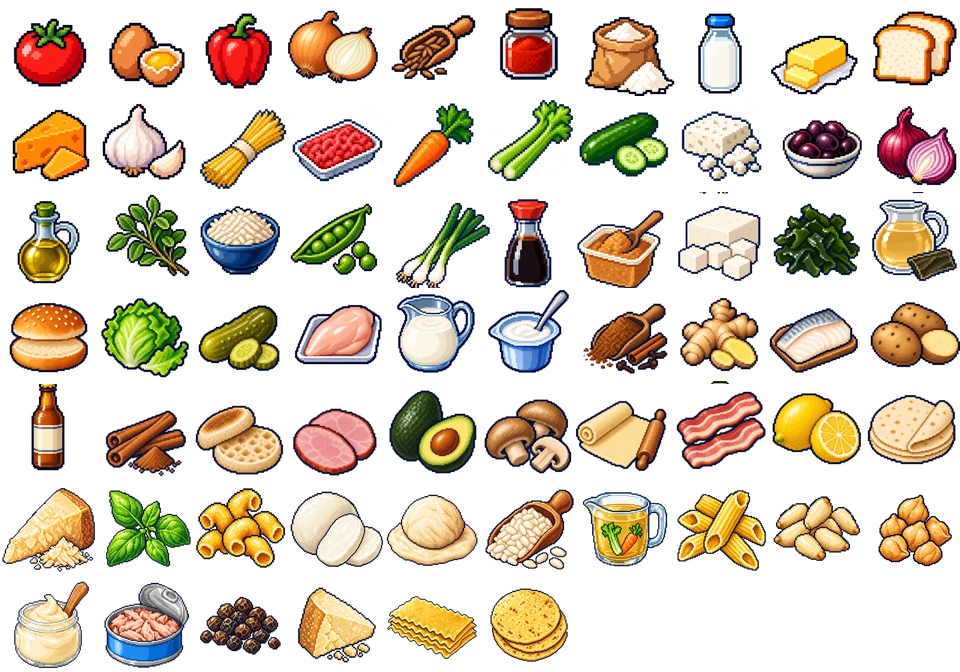
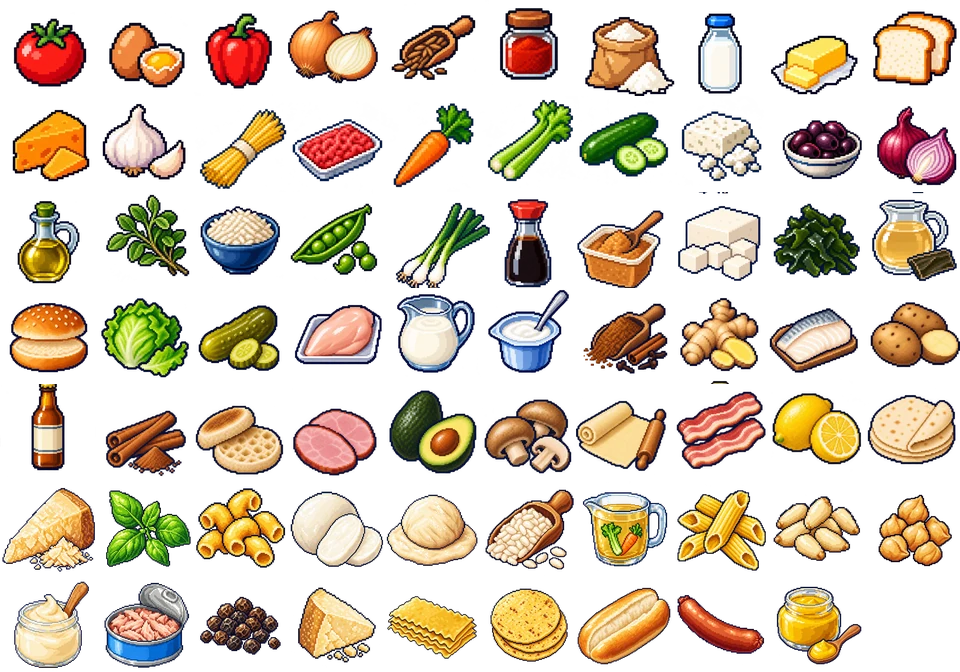
Complete hot dog meal and ingredient artwork

Changed region(s): [[0.5938, 0.875, 0.9062, 1.0]]

diff --git a/WORK_LOG.md b/WORK_LOG.md
@@ -6,9 +6,9 @@ Every AI must read this file before working and update it throughout the session
 
 - Current milestone: game/ is playable with Daily dish (US Eastern midnight, shared clue order, saved on device) and Endless (shuffled deck, excludes today's daily, not saved). Browser-verified in emulation; real-device keyboards untested.
 - Product: daily meal guessing plus endless mode. Approved desktop B split layout and mobile native-keyboard-aware layout.
-- Available: 45-meal roster, 29 meal illustrations, 66 of 103 canonical ingredient icons, 11 draft custom animation groups, mockups, prompts, visual prototypes and normalized asset map.
+- Available: 45-meal roster, 30 meal illustrations, 69 of 103 canonical ingredient icons, 11 draft custom animation groups, mockups, prompts, visual prototypes and normalized asset map.
 - Implemented: responsive game, daily/endless, daily persistence, alias suggestions, streaks, sound and lazy-loaded art. Test deploy live at https://meal-lion-playtest.netlify.app (2026-10-21, public, no password); final product decisions remain open. reference/meal-lion-demo/pilot.html remains a visual demo that exposes answers.
-- Repository/branch/checkpoint: codex/missing-food-art; latest existing checkpoint 8c54ac5 before this asset batch. Remote: origin = https://github.com/EricTalanoa/meal-lion (private); main, feat/three-meal-game and codex/missing-food-art pushed 2026-10-19.
+- Repository/branch/checkpoint: codex/missing-food-art; latest existing checkpoint 8ac6ab3 before the hot dog batch. Remote: origin = https://github.com/EricTalanoa/meal-lion (private); main, feat/three-meal-game and codex/missing-food-art pushed 2026-10-19.
 - Asset automation: cloud task 6ad7bfe9c2408191b650b820afd8a386 was verified PAUSED on 2026-10-21; local heartbeat is PAUSED to prevent duplicates. 41 icons / 18 meals queued. Outputs require later local import. See docs/ASSET_AUTOMATION.md. Recurring queue/resume behavior remains untested.
 - Confirmed rules: ingredient-count guess budget, one free clue (zero optional), hidden total by default (showing totals is optional), with explicit 'all ingredients revealed' and 'last guess' cues; reveal order shuffled every round; skip policy approved; typo-tolerant suggestions. Open decisions: aliases, timezone/schedule, scoring and storage. See docs/PRODUCT.md.
 - Images: startup downloads kitchen, chef and one 261 KB sheet of all 66 ingredient icons (tools/build-icon-atlas.py), so clue icons no longer pop in; the rest loads on first use; published images are lossless WebP copies in assets/web/ (21.4 MB total). See the 2026-10-19 image-load entry.
@@ -281,6 +281,12 @@ Every AI must read this file before working and update it throughout the session
 - Checks: 77/77 tests pass (3 new: sheet current and covering all labels, sheet drawing, pending state). Built-in browser on dist with CSP: only the sheet is requested for icons (no per-icon files); three skips each showed the new clue with its picture immediately; no console errors. Not checked: slow-network behaviour in a real browser (covered by unit tests only), real phones. The Netlify playtest site has NOT been redeployed with this change.
 - Not addressed: Leo's reaction animation strips (~1 MB each) and finished-meal plates still load on first use and can pop in on the stage/result screen. Mobile keyboard layout rework still pending a design decision.
 
+- Hot dog bun generated and saved; empty bun clearly readable, full object visible. Transparency checks pending.
+- Frankfurter generated, visually inspected and saved; standalone sausage without answer-revealing bun. Mustard and meal remain pending.
+- Mustard generated, visually inspected and saved; yellow mustard jar and spoon, no writing. Generating finished hot dog next.
+- All four hot dog assets saved with exact prompts, visually inspected and mapped. Coverage 30/45 meals, 69/103 ingredients. Full finished plate visible; WebP optimization and checks in progress.
+- Transparency validation: all four 1254x1254 RGBA PNGs have alpha 0-255 and solid objects fully within canvas. Final faint-edge/halo approval and browser/device review still pending. Concurrent icon-atlas build correctly detects map changes and falls back to per-file icons; atlas regeneration belongs with ongoing atlas work and is left untouched.
+- Icon-atlas work has now been committed independently as 24ec4ad. Regenerated its derived sheet with the three new icons so this batch retains the startup-loading fix; no game code changes.
 
 ### 2026-10-21 America/Los_Angeles — Claude — Redeploy playtest with icon sheet
 - Pushed codex/missing-food-art (includes 8ac6ab3 lasagna/tacos/corn tortilla art and 24ec4ad icon sheet). Another session had uncommitted, partly processed Hot dog art (hot-dog, hot-dog-bun, frankfurter, mustard; map, coverage, docs/ASSETS.md and log edits) in the working tree; left untouched and not deployed. Their map changes make the icon sheet stale until python tools/build-icon-atlas.py is rerun.
@@ -298,3 +304,10 @@ Every AI must read this file before working and update it throughout the session
 - Generated the copies in a clean git archive export of 5cb6b19 plus these changes, because another session's uncommitted Hot dog art (meal 20) is still in the working tree; meal 20 has no small copy yet and falls back to full size until that session reruns the optimizer (tests/build.test.mjs will flag it). Their files were left untouched and unstaged.
 - Checks (clean export): 79/79 tests pass (2 new). Visually inspected all 29 copies on a contact sheet: whole plates, no clipping. Built-in browser on the clean build (CSP on): four Endless rounds ended; in each the plate was already drawn when the result appeared; only the ~20 KB copies were fetched; no console errors. Not tested: slow network in a real browser, real phones. Leo's reaction strips (~1 MB) can still pop in on the stage.
 - Redeployed playtest from a clean export of f3cc4e9 (deploy 6ad9a914ebfe3809508a85f1, ready). Live check, four Endless rounds: plate already drawn when the result appeared for Spaghetti Bolognese, Beef lasagna and Macaroni and cheese; Hot dog has no deployed art (other session's work uncommitted) and correctly showed no plate. Only ~20 KB meal copies fetched; no console errors.
+
+### 2026-10-22 America/Los_Angeles — Codex — Asset checkpoint and Git publishing
+- User explicitly requested continued asset generation with commits, merges and pushes after each completed set. Hot dog set: all 77 tests passed; build 69 files / 41.7 MB; refreshed 69-icon atlas. No browser/device review or deployment.
+- Preparing commit, merge to main and push; then continue next missing set. Latest existing checkpoint 24ec4ad includes independently completed icon loading work.
+
+- Latest HEAD advanced concurrently to 556b69e, adding small meal copies. Recheck: 78/79 tests passed; new small-copy coverage test correctly requires Hot dog thumbnail. Running updated optimization pipeline before merge.
+- Updated optimization completed: 30 meal thumbnails and 69-icon sheet. All 79 tests passed; build 99 files / 42.3 MB. Hot dog checkpoint ready. Next set Beef stock source saved (unmapped), Cottage pie pending; excluded from hot dog commit.

diff --git a/docs/ASSETS.md b/docs/ASSETS.md
@@ -2,7 +2,7 @@
 
 All source artwork and generation prompts are in reference/. Do not overwrite originals during cleanup. See assets/asset-map.json for a consistent map; older batch manifests use different structures. Cell indexes are zero-based row-major, with paths relative to this package root. Ingredient entries marked preferred are the suggested default; the old purple Onion icon is retained as a variant, while the yellow Onion is preferred and Red onion remains its own label.
 
-There are 29/45 meal illustrations, 66/103 canonical ingredient icons and 11 custom sequence groups. Chef neutral/blink/thinking/celebrate poses are separate. An animation group means a draft strip of distinct key poses, not a finished smooth animation. Pancake and grilled-cheese sequences share a 3-by-2 atlas. The other interactions are onion, tomato, egg, milk, cheese, dough, mushroom, rice and garlic. Existing demos add procedural steam, particles and ingredient movement.
+There are 30/45 meal illustrations, 69/103 canonical ingredient icons and 11 custom sequence groups. Chef neutral/blink/thinking/celebrate poses are separate. An animation group means a draft strip of distinct key poses, not a finished smooth animation. Pancake and grilled-cheese sequences share a 3-by-2 atlas. The other interactions are onion, tomato, egg, milk, cheese, dough, mushroom, rice and garlic. Existing demos add procedural steam, particles and ingredient movement.
 
 Recommended interaction routing: Onion -> onion; Tomato -> tomato; Egg -> egg; Milk -> milk; Cheddar -> cheese; Pizza dough -> dough; Mushroom -> mushroom; Rice or Arborio rice -> rice; Garlic -> garlic. These are integration suggestions; most newer sequences are not wired into the pilot. Use neutral/general reactions for missing interactions until dedicated ones exist. A cheddar-colored animation is not automatically suitable for every cheese.
 

diff --git a/assets/COVERAGE.md b/assets/COVERAGE.md
@@ -1,6 +1,6 @@
 # Artwork coverage
 
-29/45 meal illustrations; 66/103 canonical ingredient icons; 11 custom animation groups. All draft.
+30/45 meal illustrations; 69/103 canonical ingredient icons; 11 custom animation groups. All draft.
 
 | ID | Meal | Meal art | Missing ingredient icons |
 |---|---|---|---|
@@ -23,7 +23,7 @@
 | 17 | Mushroom risotto | Available | None |
 | 18 | Gnocchi with tomato sauce | Available | None |
 | 19 | Cheeseburger | Available | None |
-| 20 | Hot dog | Missing | Hot dog bun, Frankfurter, Mustard |
+| 20 | Hot dog | Available | None |
 | 21 | BLT sandwich | Available | None |
 | 22 | Grilled cheese | Available | None |
 | 23 | Tuna melt | Available | None |
